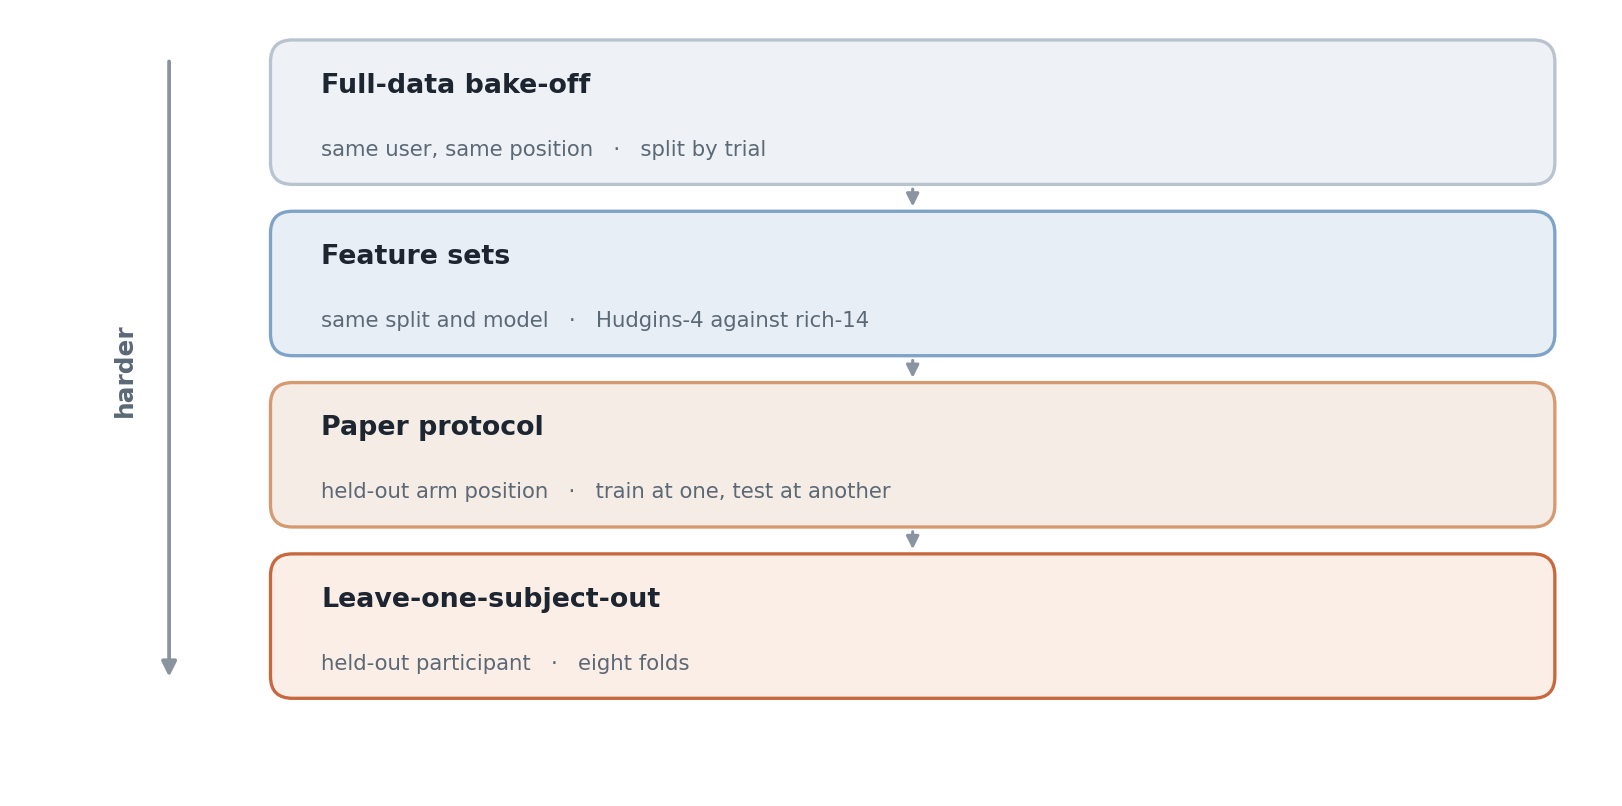
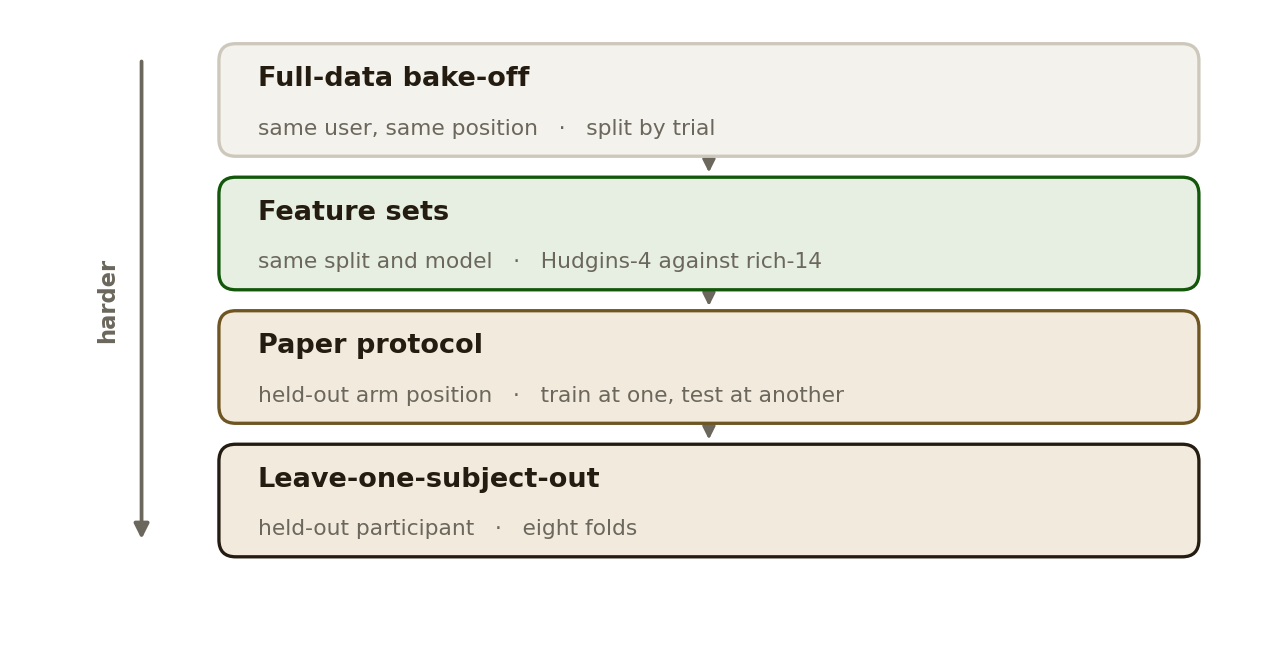
Rebuild README to the second standard
Centered header with shields badges in the fixed order, a captioned hero
and a Related section. The evaluation ladder stays the hero because no
numbers are committed. Method points become subheadings. pyproject.toml
replaces requirements.txt and adds the semg-pipeline command; CI installs
the package on 3.10, 3.11 and 3.12. The figure is redrawn with the shared
figstyle palette on a transparent ground. American spelling in the README,
docs and comments; CITATION.cff at version 1.0.0.

Changed region(s): [[0.1544, 0.0306, 0.9881, 0.8882], [0.0618, 0.0919, 0.1235, 0.827]]

diff --git a/docs/figures/figstyle.py b/docs/figures/figstyle.py
@@ -1,0 +1,123 @@
+"""House style for README figures. Copy this file next to make_hero.py.
+
+One palette for every repository, taken from the portfolio site, so a README
+figure, a social preview card and the site read as one hand. Light figures sit
+on GitHub's white canvas, dark figures on its #0d1117 canvas. Both are saved
+with a transparent background: GitHub paints its own canvas behind README
+images, so the figure follows whichever theme the reader has, including the
+dimmed dark theme, without a visible rectangle.
+
+Type: if a fonts/ directory sits beside this file with Archivo-Regular.ttf,
+Archivo-SemiBold.ttf and IBMPlexMono-Medium.ttf (built by
+_standards/fonts/build_fonts.py), labels are set in Archivo and numbers in IBM
+Plex Mono, the site's faces. Without it, DejaVu Sans, so nothing breaks.
+
+    import figstyle
+
+    def draw(T):                       # T is one entry of figstyle.PALETTE
+        fig, ax = plt.subplots(figsize=(figstyle.WIDTH, 4.6))
+        ax.text(..., fontfamily=figstyle.MONO)     # numbers
+        return fig
+
+    figstyle.save_both(draw, HERE + "hero_scenarios")
+    # writes hero_scenarios.png and hero_scenarios-dark.png
+
+Contrast on the canvas each theme is drawn for, WCAG ratio: light green 8.8,
+light gold 7.0, light muted 5.4; dark green 9.8, dark gold 8.4, dark muted 8.2.
+"""
+import glob
+import os
+
+import matplotlib
+
+matplotlib.use("Agg")
+import matplotlib.pyplot as plt
+from matplotlib import font_manager
+
+PALETTE = {
+    "light": dict(
+        canvas="#ffffff",       # GitHub light canvas, for reference only, never painted
+        ink="#241c10",          # site day ink
+        soft="#332918",
+        muted="#6b675c",
+        line="#cdc8bb",
+        fill="#f4f2ec",         # box fill, a warm paper tint on white
+        green="#12570a",        # site day green
+        gold="#6f5522",         # site day gold
+        green_fill="#e6efe2",
+        gold_fill="#f2ebdd",
+    ),
+    "dark": dict(
+        canvas="#0d1117",       # GitHub dark canvas, for reference only, never painted
+        ink="#ece7d9",          # site night ink, bone white
+        soft="#ddd9cb",
+        muted="#a9ac9b",
+        line="#3a3c33",
+        fill="#161811",
+        green="#44d62c",        # site night green, phosphor
+        gold="#c9a96a",         # site night gold, brass
+        green_fill="#12200f",
+        gold_fill="#26211a",
+    ),
+}
+
+DPI = 170
+WIDTH = 9.2      # inches. 900 / (9.2 * 170) = 0.575, so labels survive the README column.
+TITLE = 11.5     # point sizes the standard fixes
+BODY = 9.6
+SMALL = 9.2
+
+_FONTS = os.path.join(os.path.dirname(os.path.abspath(__file__)), "fonts")
+_have_fonts = False
+for _p in glob.glob(os.path.join(_FONTS, "*.ttf")):
+    font_manager.fontManager.addfont(_p)
+    _have_fonts = True
+_names = {f.name for f in font_manager.fontManager.ttflist}
+SANS = "Archivo" if _have_fonts and "Archivo" in _names else "DejaVu Sans"
+MONO = "IBM Plex Mono" if _have_fonts and "IBM Plex Mono" in _names else "DejaVu Sans Mono"
+
+
+def apply(T):
+    """Set matplotlib defaults for one theme. Called by save_both before draw()."""
+    plt.rcParams.update({
+        "font.family": SANS,
+        "font.size": BODY,
+        "text.color": T["ink"],
+        "axes.labelcolor": T["muted"],
+        "axes.edgecolor": T["line"],
+        "axes.linewidth": 1.0,
+        "axes.titlesize": TITLE,
+        "axes.titleweight": "bold",
+        "axes.titlecolor": T["ink"],
+        "axes.spines.top": False,
+        "axes.spines.right": False,
+        "axes.grid": False,
+        "xtick.color": T["muted"],
+        "ytick.color": T["muted"],
+        "xtick.labelsize": BODY,
+        "ytick.labelsize": BODY,
+        "legend.frameon": False,
+        "legend.fontsize": BODY,
+        "figure.facecolor": "none",
+        "axes.facecolor": "none",
+        "savefig.facecolor": "none",
+        "savefig.edgecolor": "none",
+    })
+
+
+def mono_ticks(ax, axis="y"):
+    """Set an axis's tick labels in the numeric face."""
+    for label in (ax.get_yticklabels() if axis == "y" else ax.get_xticklabels()):
+        label.set_fontfamily(MONO)
+
+
+def save_both(draw, stem):
+    """Render draw(T) once per theme and write <stem>.png and <stem>-dark.png."""
+    for theme, suffix in (("light", ""), ("dark", "-dark")):
+        T = PALETTE[theme]
+        apply(T)
+        fig = draw(T)
+        out = f"{stem}{suffix}.png"
+        fig.savefig(out, dpi=DPI, bbox_inches="tight", pad_inches=0.15, transparent=True)
+        plt.close(fig)
+        print("wrote", out)

diff --git a/docs/figures/make_hero.py b/docs/figures/make_hero.py
@@ -1,24 +1,19 @@
-"""Render the evaluation ladder used at the top of the README.
+"""Draw the README hero: the evaluation ladder.
 
     python docs/figures/make_hero.py
 
-Writes hero_ladder.png and hero_ladder-dark.png.
+Writes hero_ladder.png and hero_ladder-dark.png. The repository commits no
+numbers, so the hero is the structure of the evaluation rather than a result.
 """
 import os
+import sys
 
-import matplotlib
-matplotlib.use("Agg")
-import matplotlib.pyplot as plt
-from matplotlib.patches import FancyBboxPatch, FancyArrowPatch
+HERE = os.path.dirname(os.path.abspath(__file__)) + os.sep
+sys.path.insert(0, HERE)
 
-THEMES = {
-    "light": dict(bg="white", ink="#1c2530", muted="#5b6875", line="#b9c3cf",
-                  rungs=["#eef2f6", "#e7eef6", "#f4ece5", "#fbeee7"],
-                  edges=["#b9c3cf", "#7fa3c6", "#d69a72", "#c8683f"], arrow="#8a94a0"),
-    "dark": dict(bg="#0d1117", ink="#e6edf3", muted="#9198a1", line="#3d444d",
-                 rungs=["#161b22", "#12202f", "#241a12", "#2a1c14"],
-                 edges=["#3d444d", "#4a7fb5", "#a05f38", "#e08a5c"], arrow="#6e7681"),
-}
+import figstyle  # noqa: E402
+import matplotlib.pyplot as plt  # noqa: E402
+from matplotlib.patches import FancyArrowPatch, FancyBboxPatch  # noqa: E402
 
 RUNGS = [
     ("Full-data bake-off", "same user, same position", "split by trial"),
@@ -27,46 +22,39 @@ RUNGS = [
     ("Leave-one-subject-out", "held-out participant", "eight folds"),
 ]
 
-HERE = os.path.dirname(os.path.abspath(__file__))
 
-
-def render(theme, out):
-    T = THEMES[theme]
-    fig, ax = plt.subplots(figsize=(9.4, 4.6), dpi=170)
+def ladder(T):
+    fig, ax = plt.subplots(figsize=(figstyle.WIDTH, 4.6))
     ax.set_xlim(0, 94)
     ax.set_ylim(0, 46)
     ax.axis("off")
-    fig.patch.set_facecolor(T["bg"])
+    # neutral, green, gold, gold with the ink edge: the rungs get harder downwards
+    edges = [T["line"], T["green"], T["gold"], T["ink"]]
+    fills = [T["fill"], T["green_fill"], T["gold_fill"], T["gold_fill"]]
 
     W, H, X0 = 76.0, 8.6, 15.0
     top = 36.0
     for i, (title, held, how) in enumerate(RUNGS):
         y = top - i * 10.2
         ax.add_patch(FancyBboxPatch((X0, y), W, H, boxstyle="round,pad=0,rounding_size=1.3",
-                                    linewidth=1.4, edgecolor=T["edges"][i],
-                                    facecolor=T["rungs"][i], zorder=2))
+                                    linewidth=1.4, edgecolor=edges[i], facecolor=fills[i], zorder=2))
         ax.text(X0 + 3.0, y + H / 2 + 1.6, title, ha="left", va="center",
-                fontsize=11.4, color=T["ink"], fontweight="bold", zorder=3)
+                fontsize=figstyle.TITLE, color=T["ink"], fontweight="bold", zorder=3)
         ax.text(X0 + 3.0, y + H / 2 - 2.2, f"{held}   ·   {how}", ha="left", va="center",
-                fontsize=9.0, color=T["muted"], zorder=3)
+                fontsize=figstyle.SMALL, color=T["muted"], zorder=3)
         if i < len(RUNGS) - 1:
             ax.add_patch(FancyArrowPatch((X0 + W / 2, y), (X0 + W / 2, y - 1.6),
                                          arrowstyle="-|>", mutation_scale=11,
-                                         linewidth=1.3, color=T["arrow"], zorder=1))
+                                         linewidth=1.3, color=T["muted"], zorder=1))
 
     # difficulty axis on the left
     ax.add_patch(FancyArrowPatch((9.0, top + H - 1.0), (9.0, top - 3 * 10.2 + 1.0),
                                  arrowstyle="-|>", mutation_scale=13,
-                                 linewidth=1.6, color=T["arrow"], zorder=1))
+                                 linewidth=1.6, color=T["muted"], zorder=1))
     ax.text(6.4, (top + H + top - 3 * 10.2) / 2, "harder", rotation=90,
-            ha="center", va="center", fontsize=10.5, color=T["muted"], fontweight="bold")
-
-    fig.tight_layout(pad=0.2)
-    fig.savefig(out, dpi=170, bbox_inches="tight", facecolor=T["bg"])
-    plt.close(fig)
-    print("wrote", out)
+            ha="center", va="center", fontsize=figstyle.BODY, color=T["muted"], fontweight="bold")
+    return fig
 
 
 if __name__ == "__main__":
-    render("light", os.path.join(HERE, "hero_ladder.png"))
-    render("dark", os.path.join(HERE, "hero_ladder-dark.png"))
+    figstyle.save_both(ladder, HERE + "hero_ladder")

diff --git a/semg/eda.py b/semg/eda.py
@@ -5,7 +5,7 @@ Reports the class balance, how correlated the channels are with each other,
 whether PCA concentrates the variance in a few axes, and whether KMeans
 separates the gestures without labels, judged by silhouette, the elbow in the
 sum of squares, and agreement with the true labels. The unsupervised parts run
-on standardised rich features."""
+on standardized rich features."""
 import numpy as np
 from sklearn.preprocessing import StandardScaler
 from sklearn.decomposition import PCA
@@ -44,7 +44,7 @@ def run_eda(data, sample_size=40000, seed=42):
     eda["channel_corr_mean_abs"] = round(float(np.mean(np.abs(offdiag))), 3)
     eda["channel_corr_max"] = round(float(np.max(offdiag)), 3)
 
-    # Subsample, standardise, then PCA and KMeans, which keeps this quick
+    # Subsample, standardize, then PCA and KMeans, which keeps this quick
     samp = rng.choice(len(y), min(sample_size, len(y)), replace=False)
     Xs = StandardScaler().fit_transform(Xr[samp])
     ys = y[samp]

diff --git a/semg/evaluation.py b/semg/evaluation.py
@@ -171,7 +171,7 @@ def paper_protocol(data):
     return {"within_position": within, "cross_position": cross}
 
 
-# 4) Leave-one-subject-out generalisation
+# 4) Leave-one-subject-out generalization
 def loso(data, cap=5, seed=13):
     """Hold out one participant, train on the rest, test on them. Eight folds.
     Returns accuracy and a confidence interval per model, and the Wilcoxon test

diff --git a/docs/dataset.md b/docs/dataset.md
@@ -18,8 +18,8 @@ recorded. Specifications below were checked against the source paper, the
 | Arm positions | 9, a 3 by 3 grid at 45 degree offsets around a neutral P5 |
 | Trials | 4,800 grasps: 8 participants x 2 days x 2 blocks x 5 positions x 6 gestures x 5 repetitions |
 | Format | HDF5 for signals, CSV for labels, one folder per participant, day and block |
-| Data licence | CC0 1.0 |
-| Paper licence | CC BY 4.0 |
+| Data license | CC0 1.0 |
+| Paper license | CC BY 4.0 |
 
 ## Source and citation
 
@@ -92,7 +92,7 @@ P5 in elevation and azimuth. Only five are recorded per day, in two configuratio
 - **Con+**, day 1: positions 2, 4, 5, 6, 8
 - **Conx**, day 2: positions 1, 3, 5, 7, 9
 
-Only the centre, P5, is shared, so it holds roughly twice the data of any other
+Only the center, P5, is shared, so it holds roughly twice the data of any other
 position.
 
 **Trials.** One trial is a five second hold of the cued gesture followed by three
